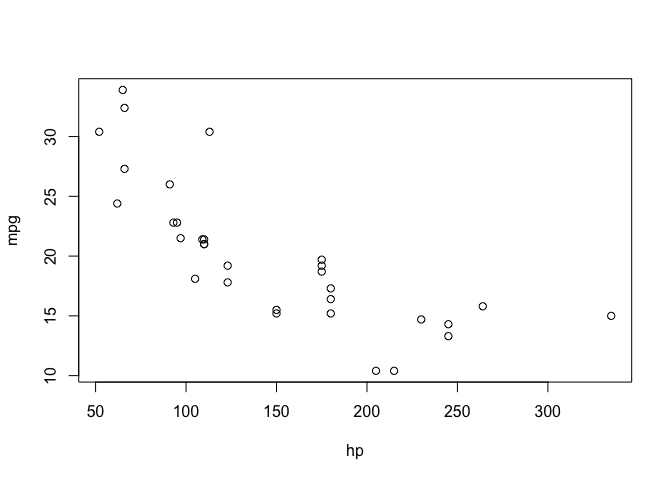
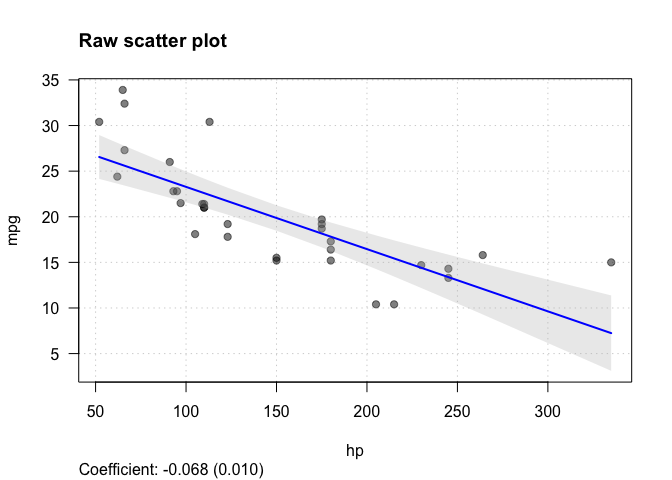
Fix bug with no covariates

diff --git a/README.md b/README.md
@@ -26,7 +26,7 @@ Here’s a simple example with fixed effects removed by `fixest`.
 library(fwlplot)
 library(fixest)
 
-plot(mpg ~ hp, data = mtcars)
+fwl_plot(mpg ~ hp, data = mtcars)
 ```
 
 <img src="man/figures/README-unnamed-chunk-2-1.png" width="100%" />
